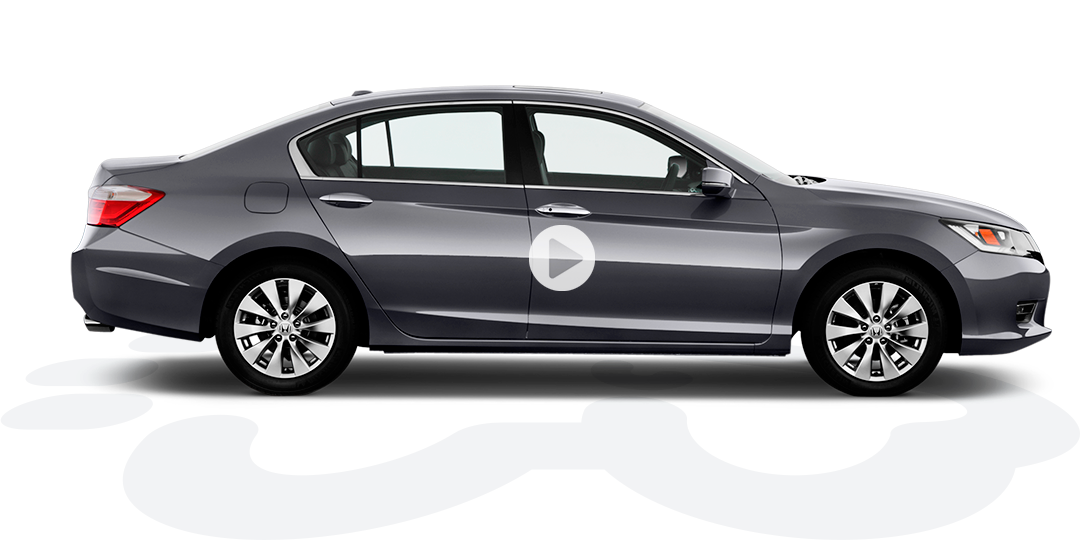
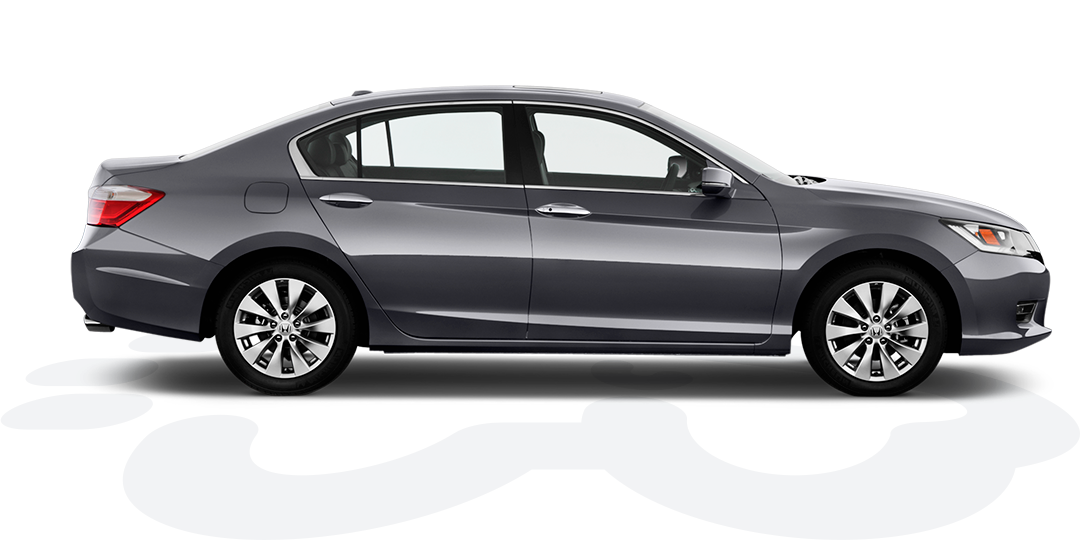
pixel perfect header, add video popup

Changed region(s): [[0.4884, 0.4148, 0.5495, 0.5333], [0.0916, 0.3556, 0.1526, 0.4148], [0.8853, 0.4148, 0.9158, 0.4444]]

diff --git a/__dev/styles/vendors/jquery.fancybox.css b/__dev/styles/vendors/jquery.fancybox.css
@@ -26,23 +26,23 @@
 
 .fancybox-skin {
 	position: relative;
-	/*background: #f9f9f9;*/
+	background: #f9f9f9;
 	color: #444;
 	text-shadow: none;
-	/*-webkit-border-radius: 4px;*/
-	   /*-moz-border-radius: 4px;*/
-	        /*border-radius: 4px;*/
+	-webkit-border-radius: 4px;
+	   -moz-border-radius: 4px;
+	        border-radius: 4px;
 }
 
 .fancybox-opened {
 	z-index: 8030;
 }
 
-/*.fancybox-opened .fancybox-skin {*/
-	/*-webkit-box-shadow: 0 10px 25px rgba(0, 0, 0, 0.5);*/
-	   /*-moz-box-shadow: 0 10px 25px rgba(0, 0, 0, 0.5);*/
-	        /*box-shadow: 0 10px 25px rgba(0, 0, 0, 0.5);*/
-/*}*/
+.fancybox-opened .fancybox-skin {
+	-webkit-box-shadow: 0 10px 25px rgba(0, 0, 0, 0.5);
+	   -moz-box-shadow: 0 10px 25px rgba(0, 0, 0, 0.5);
+	        box-shadow: 0 10px 25px rgba(0, 0, 0, 0.5);
+}
 
 .fancybox-outer, .fancybox-inner {
 	position: relative;
@@ -76,9 +76,8 @@
 }
 
 #fancybox-loading, .fancybox-close, .fancybox-prev span, .fancybox-next span {
-	background-image: url('../images/popup/fancybox_sprite.png');
+	background-image: url('../images/slider/fancybox_sprite.png');
 }
-
 
 #fancybox-loading {
 	position: fixed;
@@ -95,29 +94,28 @@
 #fancybox-loading div {
 	width: 44px;
 	height: 44px;
-	background: url('../images/popup/fancybox_loading.gif') center center no-repeat;
+	background: url('../images/slider/fancybox_loading.gif') center center no-repeat;
 }
 
 .fancybox-close {
 	position: absolute;
-    top: -21px;
-    right: -27px;
-	width: 12px;
-	height: 12px;
+	top: -18px;
+	right: -18px;
+	width: 36px;
+	height: 36px;
 	cursor: pointer;
 	z-index: 8040;
-    background: url('../images/popup/close.png')no-repeat;
 }
 
 .fancybox-nav {
 	position: absolute;
 	top: 0;
-	width: 40px;
+	width: 40%;
 	height: 100%;
 	cursor: pointer;
 	text-decoration: none;
-	/*background: transparent url('../images/popup/blank.gif'); /!* helps IE *!/*/
-	/*-webkit-tap-highlight-color: rgba(0,0,0,0);*/
+	background: transparent url('../images/slider/blank.gif'); /* helps IE */
+	-webkit-tap-highlight-color: rgba(0,0,0,0);
 	z-index: 8040;
 }
 
@@ -132,27 +130,27 @@
 .fancybox-nav span {
 	position: absolute;
 	top: 50%;
-	width: 21px;
-	height: 32px;
-	margin-top: -16px;
+	width: 36px;
+	height: 34px;
+	margin-top: -18px;
 	cursor: pointer;
 	z-index: 8040;
-
+	visibility: hidden;
 }
 
 .fancybox-prev span {
-	left: -30px;
-    background: url("../images/popup/prev.png") no-repeat;
+	left: 10px;
+	background-position: 0 -36px;
 }
 
 .fancybox-next span {
-	right: -30px;
-    background: url("../images/popup/next.png") no-repeat;
+	right: 10px;
+	background-position: 0 -72px;
 }
 
-/*.fancybox-nav:hover span {*/
-	/*visibility: visible;*/
-/*}*/
+.fancybox-nav:hover span {
+	visibility: visible;
+}
 
 .fancybox-tmp {
 	position: absolute;
@@ -186,7 +184,7 @@
 	overflow: hidden;
 	display: none;
 	z-index: 8010;
-	background: url('../images/popup/fancybox_overlay.png');
+	background: url('../images/slider/fancybox_overlay.png');
 }
 
 .fancybox-overlay-fixed {
@@ -260,17 +258,17 @@
 }
 
 /*Retina graphics!*/
-/*@media only screen and (-webkit-min-device-pixel-ratio: 1.5),*/
-	   /*only screen and (min--moz-device-pixel-ratio: 1.5),*/
-	   /*only screen and (min-device-pixel-ratio: 1.5){*/
+@media only screen and (-webkit-min-device-pixel-ratio: 1.5),
+	   only screen and (min--moz-device-pixel-ratio: 1.5),
+	   only screen and (min-device-pixel-ratio: 1.5){
 
-	/*#fancybox-loading, .fancybox-close, .fancybox-prev span, .fancybox-next span {*/
-		/*background-image: url('../images/popup/fancybox_sprite@2x.png');*/
-		/*background-size: 44px 152px; /!*The size of the normal image, half the size of the hi-res image*!/*/
-	/*}*/
+	#fancybox-loading, .fancybox-close, .fancybox-prev span, .fancybox-next span {
+		background-image: url('../images/slider/fancybox_sprite@2x.png');
+		background-size: 44px 152px; /*The size of the normal image, half the size of the hi-res image*/
+	}
 
-	/*#fancybox-loading div {*/
-		/*background-image: url('../images/popup/fancybox_loading@2x.gif');*/
-		/*background-size: 24px 24px; /!*The size of the normal image, half the size of the hi-res image*!/*/
-	/*}*/
-/*}*/
+	#fancybox-loading div {
+		background-image: url('../images/slider/fancybox_loading@2x.gif');
+		background-size: 24px 24px; /*The size of the normal image, half the size of the hi-res image*/
+	}
+}

diff --git a/__dev/scripts/production/modules/ui.js b/__dev/scripts/production/modules/ui.js
@@ -19,7 +19,12 @@ var ui = {
         $(".js-fancybox").fancybox({
             padding: 0,
             margin: 40,
-            loop: false
+            loop: false,
+
+            closeBtn: true,
+            wmode: 'transparent',
+            allowfullscreen   : 'true',
+            allowscriptaccess : 'always'
         });
     },
     sliderCatalog: function(){
